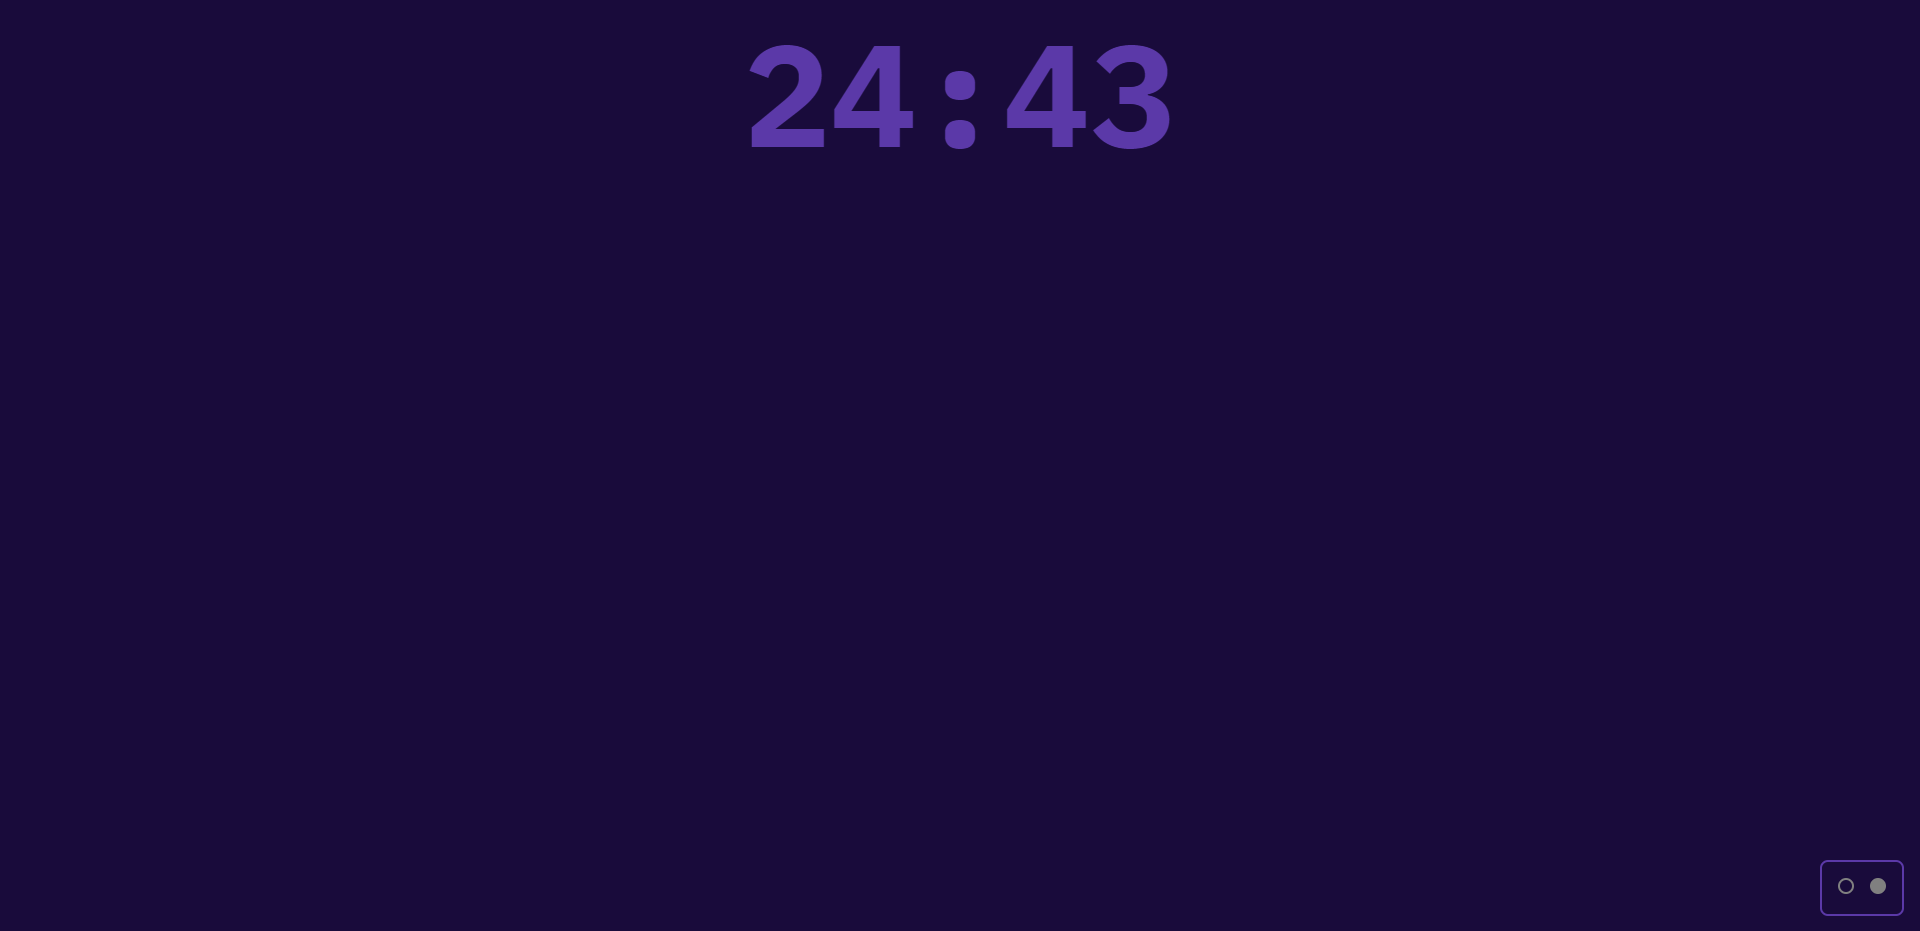
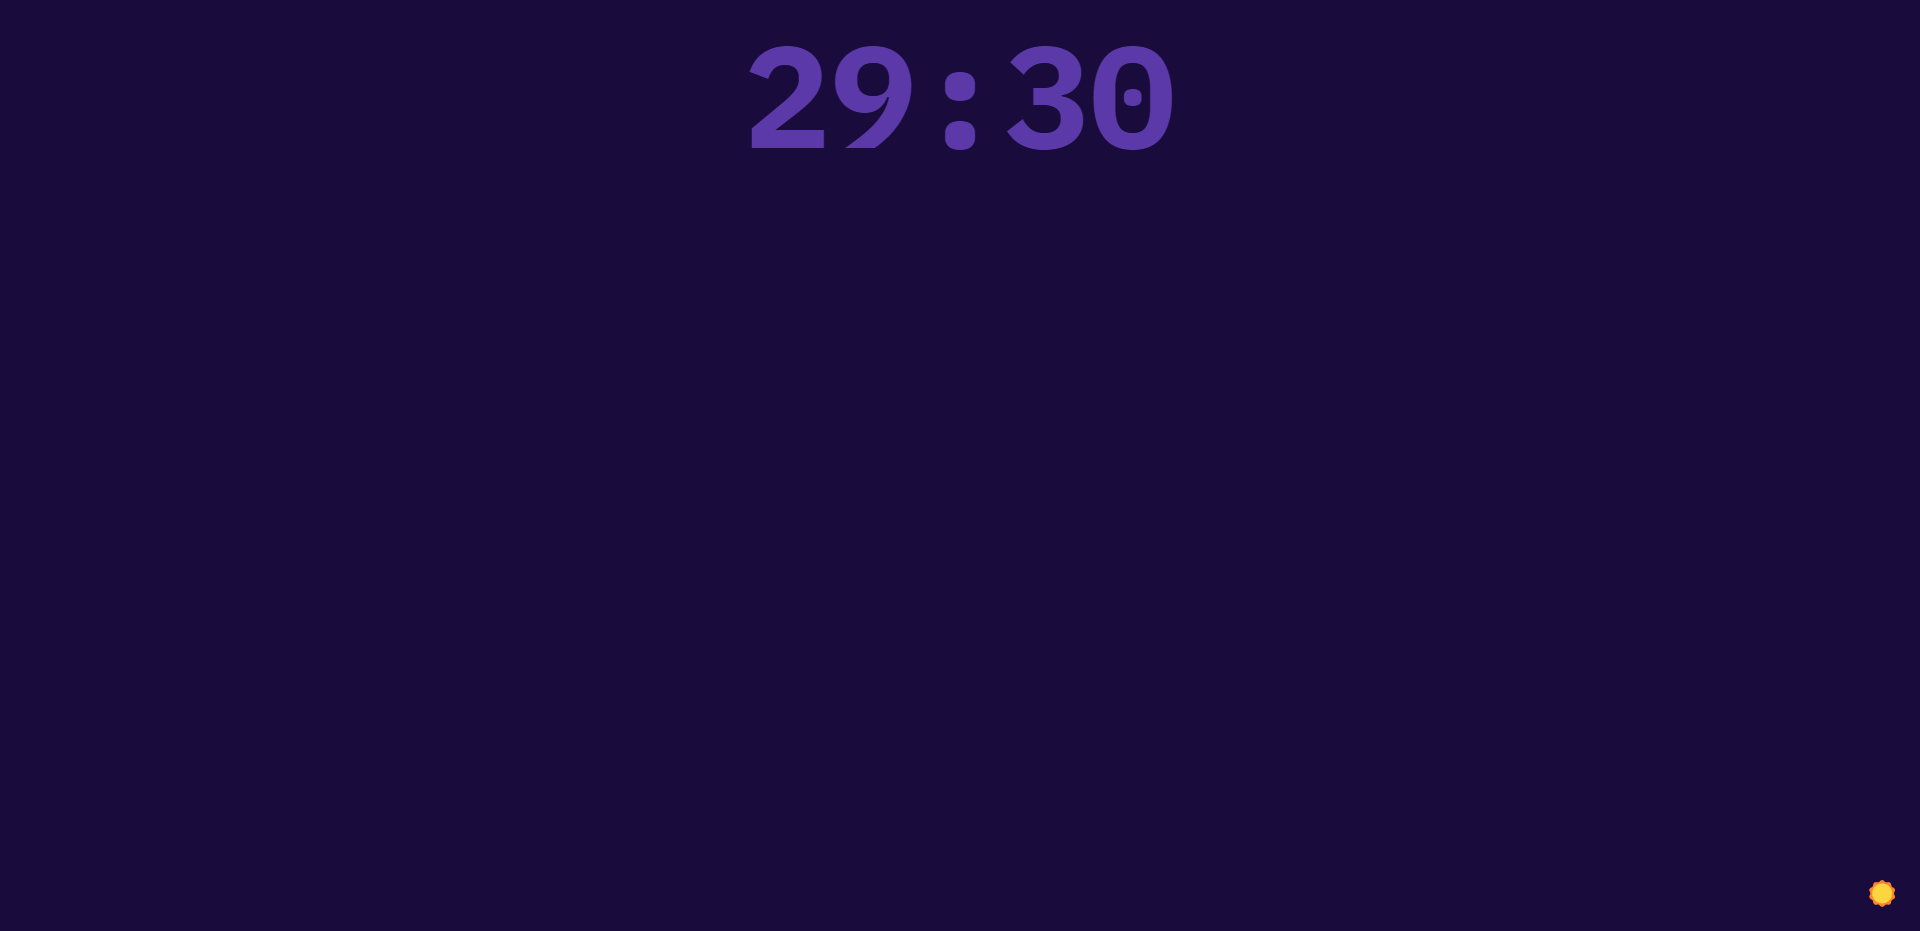
Theme switcher button structure

Changed region(s): [[0.4062, 0.0311, 0.625, 0.1557], [0.9688, 0.9345, 1.0, 0.9968]]

diff --git a/src/components/ThemeSwitcher/style.css b/src/components/ThemeSwitcher/style.css
@@ -1,35 +1,30 @@
-ul {
-    display: flex;
-    list-style: none;
-    gap: 1rem;
+/*
+Checked = dark theme
+Unchecked = light theme
+*/
 
-    background-color: var(--bg-color);
-    border: 2px solid var(--text-color);
 
-    padding: 1rem;
-    border-radius: 8px;
-
+.theme-switcher-wrapper {
     position: fixed;
     bottom: 1rem;
     right: 1rem;
 }
 
-input[type="radio"] {
+.theme-switcher-wrapper input[type="checkbox"] {
     appearance: none;
-    border: 2px solid var(--input-color);
-    width: 1rem;
-    height: 1rem;
-    border-radius: 50%;
+    position: relative;
 }
 
-input[type="radio"]:checked {
-    background-color: var(--input-color);
+.theme-switcher-wrapper input[type="checkbox"]::before {
+    content: "🌙";
+    font-size: 1.7rem;
+    cursor: pointer;
+
+    top: -2.3rem;
+    right: .2rem;
+    position: absolute;
 }
 
-#light-theme {
-    --input-color: gray;
-}
-
-#dark-theme {
-    --input-color: gray;
+.theme-switcher-wrapper input[type="checkbox"]:checked::before {
+    content: "☀";
 }

diff --git a/src/components/ThemeSwitcher/index.tsx b/src/components/ThemeSwitcher/index.tsx
@@ -4,10 +4,9 @@ import './style.css'
 function ThemeSwitcher() {
   return (
 
-    <ul>
-      <li><input id="light-theme" name="theme" type="radio" checked /></li>
-      <li><input id="dark-theme" name="theme" type="radio" /></li>
-    </ul>
+    <div className="theme-switcher-wrapper">
+      <input type="checkbox" name="theme-switcher" id="theme-switcher" />
+    </div>
 
   )
 }

diff --git a/src/index.css b/src/index.css
@@ -25,7 +25,7 @@ body {
 }
 
 #dark-theme,
-:root:has(#dark-theme:checked) {
+:root:has(#theme-switcher:checked) {
   --bg-color: rgb(25, 11, 59);
   --text-color: rgb(91, 57, 168);
 }
